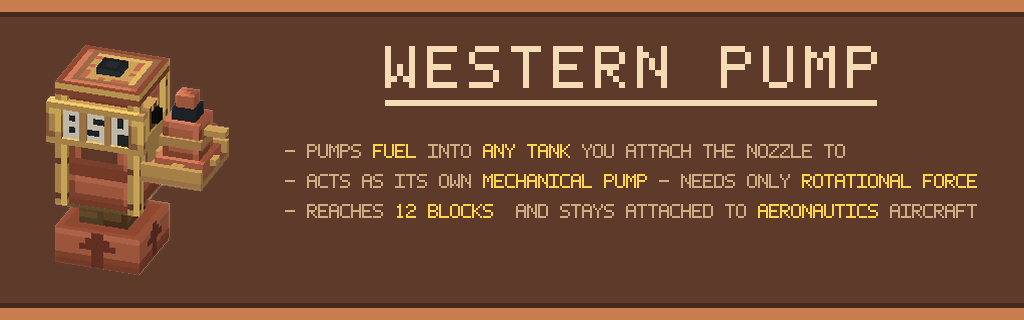
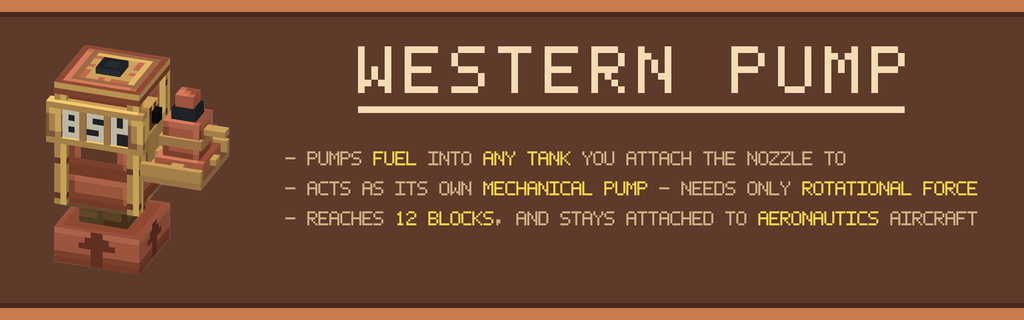
Enhance README and improve compatibility with Sable; update assets and scripts

diff --git a/tools/generate_icon.py b/tools/generate_icon.py
@@ -24,7 +24,7 @@ Requires Pillow.
 import math
 import os
 
-from PIL import Image, ImageFilter
+from PIL import Image, ImageDraw, ImageFilter
 
 import generate_art as ga
 
@@ -45,6 +45,13 @@ SHADE = {"up": 1.0, "down": 0.52, "north": 0.80, "south": 0.80, "east": 0.66, "w
 SHADOW_ALPHA = 90
 SHADOW_BLUR = 10
 SHADOW_COLOR = (12, 26, 45, 255)
+
+# The white sticker border Create draws round the subject in its own mod icons, as a fraction of
+# the icon's width.
+OUTLINE_COLOR = (255, 255, 255, 255)
+OUTLINE_WIDTH = 0.026
+# Matching white ring round the logo disc, as Create's icons have.
+DISC_RING_WIDTH = 0.020
 
 
 # --------------------------------------------------------------------------------------
@@ -314,13 +321,52 @@ def render(boxes, size, ss):
 # --------------------------------------------------------------------------------------
 # Composite
 # --------------------------------------------------------------------------------------
+def outline_mask(alpha, radius):
+    """
+    Grow a silhouette outwards by `radius` pixels. MaxFilter is a true dilation, so the result
+    follows the shape at a constant distance instead of the soft falloff a blur would give -- that
+    even thickness is what makes Create's icons read as stickers.
+    """
+    grown = alpha.point(lambda a: 255 if a > 96 else 0)
+    # MaxFilter's kernel must be odd and is applied as a square; chain modest passes so the corners
+    # stay rounded rather than growing into a lozenge.
+    step = 5
+    passes = max(1, int(round(radius * 2.0 / (step - 1))))
+    for _ in range(passes):
+        grown = grown.filter(ImageFilter.MaxFilter(step))
+    # A touch of blur then a hard threshold re-rounds the corners without softening the edge.
+    return grown.filter(ImageFilter.GaussianBlur(radius * 0.22)).point(lambda a: 255 if a > 110 else 0)
+
+
 def composite(pump, background):
-    """Pump over Create's logo disc, with a soft contact shadow clipped to the disc."""
+    """
+    Pump over Create's logo disc: a contact shadow on the disc, then the thick white sticker
+    outline Create puts round the subject in its own icons, then the pump itself.
+    """
     bg = Image.open(background).convert("RGBA").resize((SIZE, SIZE), Image.LANCZOS)
+    alpha = pump.getchannel("A")
+
+    # White ring round the disc. The source logo already fills its canvas to within a few pixels,
+    # so there is no room to grow a ring outwards: shrink the disc by the ring's width first, then
+    # lay the ring in the space that frees up. Drawn on a supersampled mask so the circle is smooth.
+    ring_px = SIZE * DISC_RING_WIDTH
+    inner = int(round(SIZE - 2 * ring_px))
+    small = bg.resize((inner, inner), Image.LANCZOS)
+    bg = Image.new("RGBA", (SIZE, SIZE), (0, 0, 0, 0))
+    off = (SIZE - inner) // 2
+    bg.paste(small, (off, off))
+
+    ss = 4
+    mask = Image.new("L", (SIZE * ss, SIZE * ss), 0)
+    ImageDraw.Draw(mask).ellipse([ss * 1, ss * 1, ss * (SIZE - 1), ss * (SIZE - 1)], fill=255)
+    mask = mask.resize((SIZE, SIZE), Image.LANCZOS)
+    disc_ring = Image.new("RGBA", (SIZE, SIZE), (0, 0, 0, 0))
+    disc_ring.paste(Image.new("RGBA", (SIZE, SIZE), OUTLINE_COLOR), (0, 0), mask)
+    bg = Image.alpha_composite(disc_ring, bg)
 
     # Shadow: the pump's silhouette, blurred and pushed down-right, then masked by the disc's own
     # alpha so it never spills past Create's circle onto the transparent corners.
-    silhouette = pump.getchannel("A").point(lambda a: SHADOW_ALPHA if a > 96 else 0)
+    silhouette = alpha.point(lambda a: SHADOW_ALPHA if a > 96 else 0)
     shadow = Image.new("RGBA", (SIZE, SIZE), (0, 0, 0, 0))
     shadow.paste(Image.new("RGBA", (SIZE, SIZE), SHADOW_COLOR), (0, 0), silhouette)
     shadow = shadow.filter(ImageFilter.GaussianBlur(SHADOW_BLUR))
@@ -329,8 +375,15 @@ def composite(pump, background):
     placed.paste(shadow, (int(SIZE * 0.015), int(SIZE * 0.020)), shadow)
     clipped = Image.new("RGBA", (SIZE, SIZE), (0, 0, 0, 0))
     clipped.paste(placed, (0, 0), bg.getchannel("A"))
-
     out = Image.alpha_composite(bg, clipped)
+
+    # White sticker outline. It is deliberately NOT clipped to the disc: in Create's own icons the
+    # subject's border runs over the circle's edge, which is what sells the cut-out look.
+    ring = Image.new("RGBA", (SIZE, SIZE), (0, 0, 0, 0))
+    ring.paste(Image.new("RGBA", (SIZE, SIZE), OUTLINE_COLOR), (0, 0),
+               outline_mask(alpha, SIZE * OUTLINE_WIDTH))
+    out = Image.alpha_composite(out, ring)
+
     return Image.alpha_composite(out, pump)
 
 

diff --git a/src/main/java/me/jamino/westernpump/compat/sable/SubLevelSupport.java b/src/main/java/me/jamino/westernpump/compat/sable/SubLevelSupport.java
@@ -62,6 +62,41 @@ public final class SubLevelSupport {
     }
 
     /**
+     * Rotates a <i>direction</i> out of the sub-level containing {@code anchor} into world space.
+     *
+     * <p>This is the counterpart to {@link #toWorld} and is needed wherever an orientation, not
+     * just a point, comes from inside a sub-level. A {@link net.minecraft.core.Direction} constant
+     * such as {@code EAST} means "east along the sub-level's own grid"; once the vehicle has any
+     * yaw or pitch that is not east in the world, so anything built from a raw face normal ends up
+     * axis-aligned to the world while the vehicle it is bolted to is tilted.
+     *
+     * <p>{@code anchor} is only used to find the sub-level ({@code getContaining} is chunk-based
+     * and so needs a position); {@code dir} is the direction actually transformed. Outside a
+     * sub-level this is the identity, so it degrades to plain world directions without Sable.
+     *
+     * <p>Sable's {@code transformNormal} also applies the pose's scale, so the result is not unit
+     * length under a scaled sub-level. Callers that need a basis vector should normalise — note
+     * that {@link me.jamino.westernpump.content.pump.NozzleAnimation.Pose} already does.
+     */
+    public static Vec3 directionToWorld(Level level, Vec3 anchor, Vec3 dir) {
+        SubLevelAccess sub = SableCompanion.INSTANCE.getContaining(level, anchor);
+        return sub == null ? dir : sub.logicalPose().transformNormal(dir);
+    }
+
+    /**
+     * Client-only, interpolated variant of {@link #directionToWorld}, for the same reason
+     * {@link #toWorldForRender} exists: the logical pose only updates at 20 Hz, so a nozzle
+     * oriented from it visibly snaps between ticks on a moving vehicle.
+     */
+    public static Vec3 directionToWorldForRender(Level level, Vec3 anchor, Vec3 dir, float partialTick) {
+        SubLevelAccess sub = SableCompanion.INSTANCE.getContaining(level, anchor);
+        if (sub instanceof ClientSubLevelAccess client) {
+            return client.renderPose(partialTick).transformNormal(dir);
+        }
+        return directionToWorld(level, anchor, dir);
+    }
+
+    /**
      * Distance squared that stays correct when the two points live in different sub-levels
      * (Sable projects both into a common space first). Used for hose range checks so a plane
      * flying away from the pump actually breaks the connection.

diff --git a/src/main/java/me/jamino/westernpump/content/pump/FuelPumpRenderer.java b/src/main/java/me/jamino/westernpump/content/pump/FuelPumpRenderer.java
@@ -125,19 +125,26 @@ public class FuelPumpRenderer extends SafeBlockEntityRenderer<FuelPumpBlockEntit
                 return holster;
             }
             Vec3 face = target.renderAnchor(level, partialTicks);
-            Vec3 normal = Vec3.atLowerCornerOf(target.side().getNormal());
+            // Both of these are rotated by the endpoint's sub-level, so a nozzle plugged into a
+            // vehicle turns with it. Off a vehicle they are the plain world axes as before.
+            Vec3 normal = target.renderNormal(level, partialTicks).normalize();
             // Face points into the tank; the inlet sits one coupler-length back out along the normal.
             // Tank side panels tend to be inset a pixel, so on a side face the flange is sunk by one.
+            // Both this test and the vertical-face test below read the *local* side, not the rotated
+            // normal: which face of the tank was clicked is fixed, so a banking vehicle must not
+            // flip the branch and snap the grip around mid-flight.
             double seat = target.side().getAxis().isHorizontal() ? -1 / 16.0 : 0.02;
             Vec3 inlet = face.add(normal.scale(PumpGeometry.NOZZLE_LENGTH + seat));
             Vec3 spout = normal.scale(-1);
             Vec3 up;
-            if (Math.abs(normal.y) > 0.5) {
-                // Plugged into a top or bottom face: turn the grip towards the pump.
+            if (target.side().getAxis().isVertical()) {
+                // Plugged into a top or bottom face: turn the grip towards the pump. Flattened
+                // against the vehicle's deck rather than the world's, so it stays square when banked.
+                Vec3 deckUp = target.renderUp(level, partialTicks).normalize();
                 Vec3 back = pump.getHoseAnchor().subtract(face);
-                up = new Vec3(back.x, 0, back.z);
+                up = back.subtract(deckUp.scale(back.dot(deckUp)));
             } else {
-                up = new Vec3(0, 1, 0);
+                up = target.renderUp(level, partialTicks);
             }
             return new Pose(inlet, spout, up);
         }

diff --git a/src/main/java/me/jamino/westernpump/content/hose/FuelEndpoint.java b/src/main/java/me/jamino/westernpump/content/hose/FuelEndpoint.java
@@ -51,6 +51,27 @@ public record FuelEndpoint(BlockPos pos, Direction side, @Nullable UUID subLevel
         return SubLevelSupport.toWorldForRender(level, localAnchor(), partialTick);
     }
 
+    /**
+     * The clicked face's outward normal in world space, smoothed for rendering.
+     *
+     * <p>{@code side().getNormal()} on its own is a world axis constant, which is only the real
+     * face direction while the endpoint's vehicle is unrotated. Anything that orients a model
+     * against this face — or offsets a point away from it — has to use this instead, or it stays
+     * world-axis-aligned while the vehicle banks.
+     */
+    public Vec3 renderNormal(Level level, float partialTick) {
+        Vec3 local = Vec3.atLowerCornerOf(side.getNormal());
+        return SubLevelSupport.directionToWorldForRender(level, localAnchor(), local, partialTick);
+    }
+
+    /**
+     * The vehicle's own up axis in world space, smoothed for rendering. A nozzle plugged into a
+     * banked aircraft should hang square to its deck, not to the sky.
+     */
+    public Vec3 renderUp(Level level, float partialTick) {
+        return SubLevelSupport.directionToWorldForRender(level, localAnchor(), new Vec3(0, 1, 0), partialTick);
+    }
+
     /** True while this endpoint sits inside a Sable sub-level (i.e. a vehicle). */
     public boolean isOnVehicle(Level level) {
         return SubLevelSupport.getContaining(level, pos) != null;

diff --git a/tools/generate_banner.py b/tools/generate_banner.py
@@ -98,6 +98,8 @@ GLYPHS = {
     "+": ["00000", "00100", "00100", "11111", "00100", "00100", "00000"],
     "-": ["00000", "00000", "00000", "11111", "00000", "00000", "00000"],
     ".": ["00000", "00000", "00000", "00000", "00000", "01100", "01100"],
+    ",": ["00000", "00000", "00000", "00000", "01100", "01100", "01000"],
+    "!": ["00100", "00100", "00100", "00100", "00100", "00000", "00100"],
     ":": ["00000", "01100", "01100", "00000", "01100", "01100", "00000"],
     "/": ["00001", "00010", "00010", "00100", "01000", "01000", "10000"],
     "'": ["00100", "00100", "00000", "00000", "00000", "00000", "00000"],

diff --git a/README.md b/README.md
@@ -2,114 +2,33 @@
 
 ![Create: Western Pump](docs/banner.png)
 
-A Create addon for Minecraft 1.21.1 / NeoForge that adds a gas-station fuel pump with a physical,
-sagging hose you drag over to a vehicle and leave attached while it fuels.
+A Create addon for Minecraft 1.21.1 / NeoForge. A gas-station fuel pump with a physical, sagging
+hose you drag over to a vehicle and leave attached while it fuels.
 
-Status: **phases 0–5 implemented**, pending in-game playtesting.
+## Recommended alongside
 
-## What it does
+- **[Create: Aeronautics](https://modrinth.com/mod/create-aeronautics)** the hose stays attached as they move!!
+- **[Create: Diesel Generators](https://modrinth.com/mod/create-diesel-generators)** fuels and
+  tanks to pump. The pump joins its creative tab when it is installed.
 
-1. Run Create fluid pipes into the **bottom** of the pump and turn the wooden cog in its base
-   with any adjacent cogwheel. The pump is its own Create pump: while powered it pulls fuel
-   from any tank within the standard 16-block pipe range (or from a tank directly underneath)
-   into a small buffer. It never creates fuel.
-2. Right-click the pump with an empty hand to take the nozzle.
-3. Right-click any block that exposes a fluid handler — a Create tank, an Aeronautical Diesel fuel
-   tank, a fuel port on a Sable aircraft — to attach the hose.
-4. Fuel flows while the source has fuel, the target has room, and the fluids match.
-5. Right-click the same target again (or the pump) to detach and rack the nozzle.
-
-## Creative tab
-
-The pump appears in **Create: Diesel Generators'** creative tab (`createdieselgenerators:cdg_creative_tab`)
-when that mod is installed, and falls back to its own tab otherwise. Diesel Generators is an
-optional dependency, not a required one.
-
-All tab population happens in a single `BuildCreativeModeTabContentsEvent` handler in
-[`ModCreativeTab`](src/main/java/me/jamino/westernpump/registry/ModCreativeTab.java). Registrate's
-`setCreativeTab` is deliberately not used: combined with an explicit `displayItems` it contributes
-the same stack twice and vanilla throws `Itemstack ... already exists in the tab's list` when the
-creative menu is opened. If you add items, use that one handler.
-
-`libs/` holds a copy of the Diesel Generators jar as a `runtimeOnly` dev dependency so this
-placement can actually be tested; it is gitignored and not needed to build.
-
-## Build
-
-```bash
-./gradlew build      # jar in build/libs/
-./gradlew runClient  # dev client
-./gradlew runServer  # dev server
-```
-
-Textures, models, the nozzle partial and `docs/fuel_pump.bbmodel` are generated, not hand-drawn — regenerate with `python tools/generate_art.py` (palette study in `docs/art-study-notes.md`)
-(requires Pillow). Test structure templates come from `python tools/make_test_template.py`.
-
-## How vehicle refuelling works
-
-Sable (used by Create Aeronautics) moves a vehicle's blocks into a **sub-level**: their
-`BlockPos` stays constant while the vehicle itself flies around. A fuel port bolted to a plane is
-therefore always at the same block position, but its *rendered* position changes every frame.
-
-The pump stores each connection as `BlockPos + clicked face + sub-level UUID`
-([`FuelEndpoint`](src/main/java/me/jamino/westernpump/content/hose/FuelEndpoint.java)) and converts
-to world space on demand:
-
-| Need | Call |
-|---|---|
-| Server logic, range checks | `projectOutOfSubLevel` |
-| Rendering (smooth, no stutter) | `ClientSubLevelAccess.renderPose(partialTick)` |
-| Range across different sub-levels | `distanceSquaredWithSubLevels` |
-| "Is this still the same vehicle?" | `SubLevelAccess.getUniqueId()` |
-
-The persisted UUID is what stops a hose silently re-targeting an unrelated block after a vehicle
-is disassembled.
-
-### No mod-loaded guards are needed
-
-`sable-companion` is an MIT API shim that registers a **no-op default implementation** through
-`META-INF/services`. With Sable absent, `getContaining()` returns `null` and
-`projectOutOfSubLevel()` is the identity function, so the same code path degrades cleanly to plain
-world coordinates. This is why [`SubLevelSupport`](src/main/java/me/jamino/westernpump/compat/sable/SubLevelSupport.java)
-calls the API unconditionally instead of hiding behind `isModLoaded` checks and reflection.
-
-## Compatibility approach
-
-The pump talks to targets **only** through NeoForge's `Capabilities.FluidHandler.BLOCK`. It does
-not reference Aeronautical Diesel's classes, so it works with its tanks (assuming they expose the
-standard capability, which still needs in-game confirmation) without depending on a closed-source
-jar — and works just as well with any other mod's tank.
+Neither is required but idk what you would be using this for then.
 
 ## Attribution
 
 The hose's catenary solver in
 [`HoseCurve`](src/main/java/me/jamino/westernpump/content/hose/HoseCurve.java) is adapted from
 [Create: Power Grid](https://github.com/patryk3211/PowerGrid)'s `CurveParameters`
-(Apache License 2.0, © 2025 patryk3211). Power Grid's electrical network is not used or depended
-on — only the curve mathematics and its approach to Sable sub-level endpoints.
+(Apache License 2.0, © 2025 patryk3211). Its power-line rendering is what the fuel hose's sag and
+tube geometry are modelled on. Power Grid's electrical network is not used or depended on.
 
-## Verified so far
+## Build
 
-- `./gradlew build` compiles against Create 6.0.10, Registrate, Catnip and Sable Companion.
-- Dedicated server boots with Create and reports `0 mod requirements missing`.
-- Dev client reaches the main menu with no missing-texture or model-load errors.
-- `./gradlew runGameTestServer` — **6/6 gametests pass**, covering two-block placement, the fluid
-  capability on both halves, buffer filling, endpoint NBT round-trip, creative-tab placement, and
-  an end-to-end transfer into a real Create fluid tank that asserts fuel is conserved (no duping,
-  no voiding). The transfer and creative-tab tests were both confirmed non-vacuous by deliberately
-  breaking them and watching them fail.
-- Creative-tab placement tested **both** with and without Create: Diesel Generators installed.
+```bash
+./gradlew build      # jar in build/libs/
+./gradlew runClient  # dev client
+```
 
-## Known gaps
+Art is generated, not hand-drawn: `python tools/generate_art.py`, then `tools/generate_icon.py`
+and `tools/generate_banner.py` (requires Pillow).
 
-- **Not yet played by hand in a live world.** The two-click loop is covered by server-side logic
-  tests, not by a human clicking a pump, and the hose has never been looked at on screen.
-- **Sable/Aeronautics is written but untested against the real mods.** The sub-level code paths
-  are exercised only in their no-op (Sable-absent) form; nothing here has been run against a
-  flying vehicle. Uncomment the Sable runtime dependency in `build.gradle` to try it.
-- **Aeronautical Diesel compatibility is unverified.** The generic capability path is the right
-  approach, but whether its tank exposes `FluidHandler.BLOCK` was never confirmed in game — that
-  was Phase 1's spike and it still needs doing.
-- The pump is a textured box: the nozzle is not a separate rendered part, so there is no
-  lift/latch animation. The hose curve itself is fully rendered.
-- No Ponder scene (Phase 6).
+MIT licensed.
